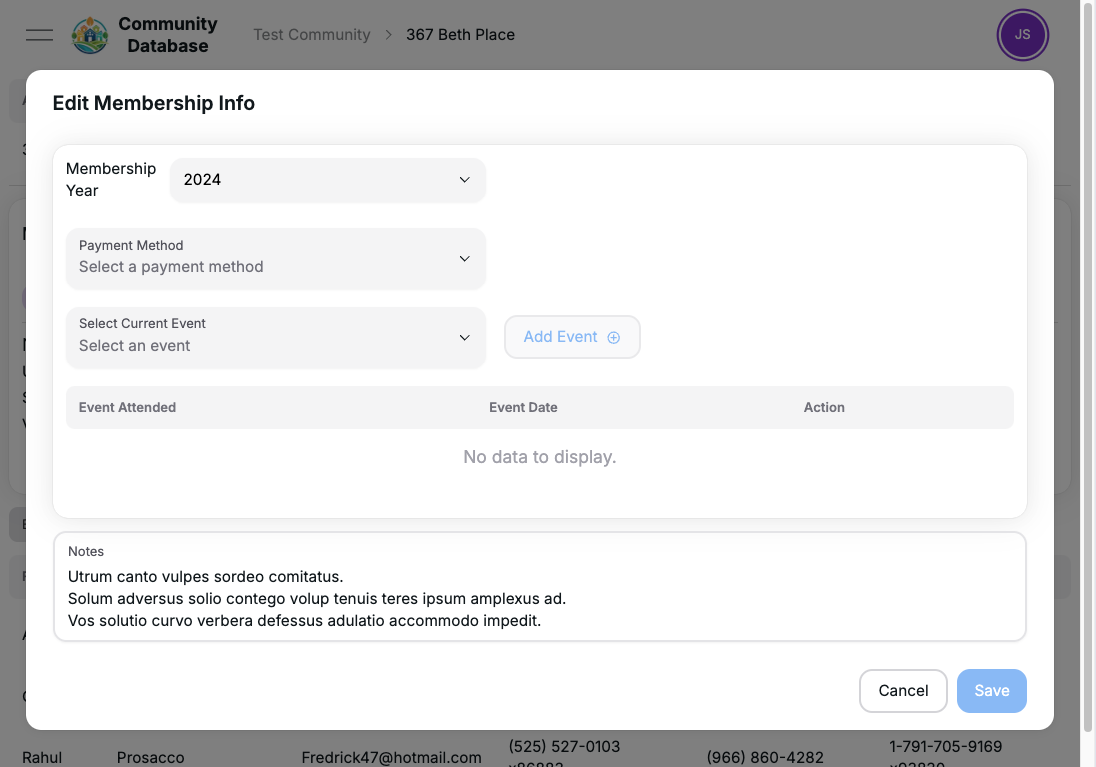
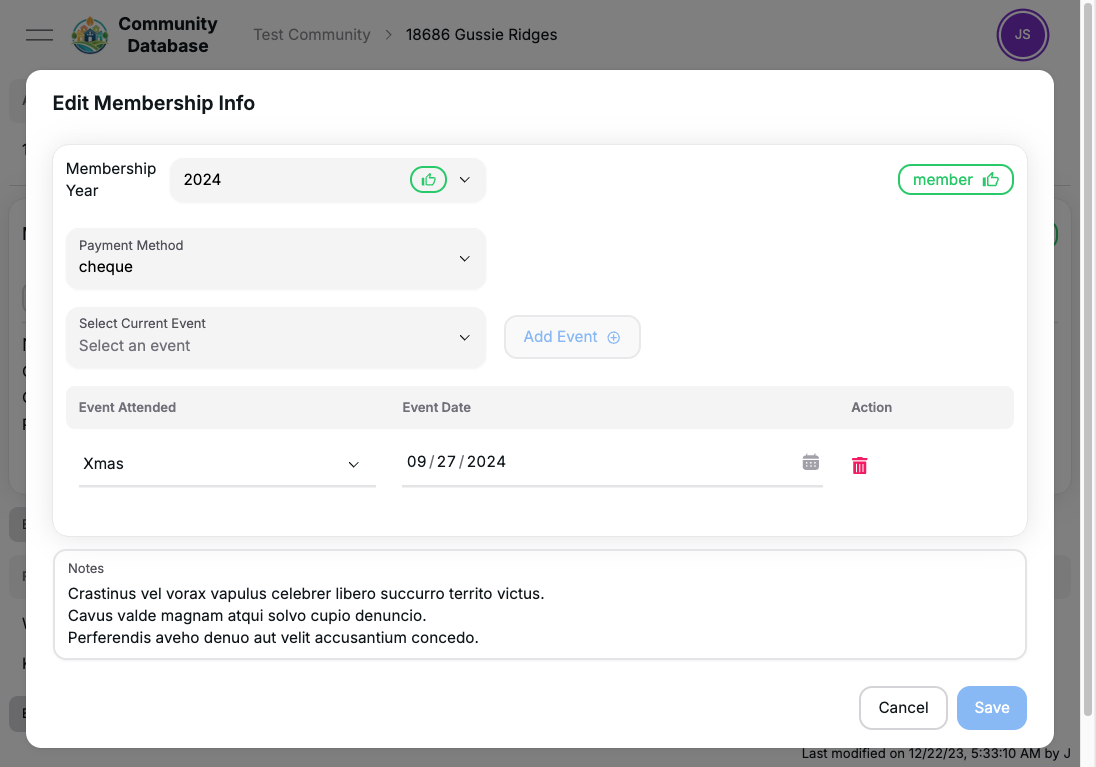
fix: update screenshots Fixes #63

diff --git a/cypress/e2e/landing-screenshot.cy.ts b/cypress/e2e/landing-screenshot.cy.ts
@@ -1,10 +1,17 @@
 import path from 'path';
 
+// Default timeout
+const timeout = 10000;
+
 /**
  * Take screenshot and save them into `/src/app/view/landing/getting-started`
  * directory
  */
 function takeScreenshot(name: string) {
+  // Wait a bit before taking screenshot, in case there is animation
+  // that needs to be transitioned through
+  // eslint-disable-next-line cypress/no-unnecessary-waiting
+  cy.wait(500);
   cy.screenshot(name, {
     overwrite: true,
     capture: 'viewport',
@@ -44,37 +51,42 @@ describe('take screenshots for landing screen', () => {
     cy.findByLabelText('Property Table')
       .find('tbody')
       .findAllByRole('row')
-      // Find first property with at least one occupants
-      .find('td[data-key$="occupant"]')
-      .contains(/^\w+/)
+      .filter<HTMLTableRowElement>((index, tr) => {
+        const members = tr.cells[1];
+        const curYear = tr.cells[2];
+        // Grab Members with some text and Current year should have a checkmark
+        return members.innerText !== '' && curYear.innerHTML.includes('<svg');
+      })
+      .first()
       .click();
-    cy.wait(2000);
-    cy.get('button').contains('Edit Membership Info');
-    cy.get('button').contains('Edit Member Details');
+
+    // Wait for property detail page
+    cy.findByText('Membership Info For Year', { timeout });
     takeScreenshot('property-detail');
 
     cy.clickButton('Edit Membership Info');
-    cy.wait(2000);
     cy.findByRole('dialog').contains('Edit Membership Info');
     takeScreenshot('membership-editor');
     cy.clickButton('Cancel');
 
     // cy.clickButton('Edit Member Details');
-    // cy.wait(2000);
     // cy.findByRole('dialog').contains('Edit Member Details');
     // takeScreenshot('occupant-editor');
     // cy.clickButton('Cancel');
 
     cy.clickMainMenu();
     cy.clickMenuItem('Dashboard');
-    cy.wait(6000);
-    cy.findByText('Dashboard');
+    // Wait for graphs to be loaded
+    cy.get('div.grid div[data-loaded="true"]', { timeout }).should(
+      'have.length',
+      3
+    );
     cy.scrollTo(0, 370);
     takeScreenshot('dashboard');
 
     cy.clickMainMenu();
     cy.clickMenuItem('Export to Excel');
-    cy.wait(3000);
+    cy.findByText('Download', { timeout });
     cy.get('table').parent().scrollTo(1950, 0);
     takeScreenshot('export-to-xlsx');
   });

diff --git a/src/app/community/[communityId]/property/[propertyId]/year-select-items.tsx b/src/app/community/[communityId]/property/[propertyId]/year-select-items.tsx
@@ -66,16 +66,10 @@ export const YearItemLabel: React.FC<YearItemLabelProps> = ({ item }) => {
       <div className="grow" />
       {item.isMember != null && (
         <Chip
-          classNames={{
-            base: clsx(
-              'border-small border-white/50',
-              item.isMember ? 'bg-success-200' : 'bg-gray-200'
-            ),
-            content: 'drop-shadow shadow-black text-gray-600',
-          }}
-          variant="flat"
+          variant="bordered"
           radius="md"
           size="sm"
+          color={item.isMember ? 'success' : 'default'}
         >
           <Icon icon={item.isMember ? 'thumb-up' : 'thumb-down'} size={14} />
         </Chip>

diff --git a/src/app/community/[communityId]/property/[propertyId]/membership-display/member-status-chip.tsx b/src/app/community/[communityId]/property/[propertyId]/membership-display/member-status-chip.tsx
@@ -18,12 +18,9 @@ export const MemberStatusChip: React.FC<Props> = ({
   return (
     <div className={clsx(className, 'flex gap-2')}>
       <Chip
-        classNames={{
-          base: clsx(isMember ? 'bg-success-200' : 'bg-gray-200'),
-          content: 'drop-shadow shadow-black text-gray-600',
-        }}
-        variant="flat"
+        variant="bordered"
         radius="md"
+        color={isMember ? 'success' : 'default'}
       >
         <div className="flex items-center gap-2">
           {isMember ? 'member' : 'non-member'}

diff --git a/cypress/support/navigate.ts b/cypress/support/navigate.ts
@@ -1,6 +1,12 @@
 Cypress.Commands.add('navigatePropertyList', () => {
   cy.visit('/community');
+
+  // Wait for menu to load
+  cy.findByText('Welcome!', { timeout: 5000 });
   cy.clickMainMenu();
   cy.clickMenuItem('Select Community');
   cy.findByRole('option', { name: 'Test Community' }).click();
+
+  // Wait for property list to load
+  cy.findByPlaceholderText('Search Address or Member Name', { timeout: 10000 });
 });
